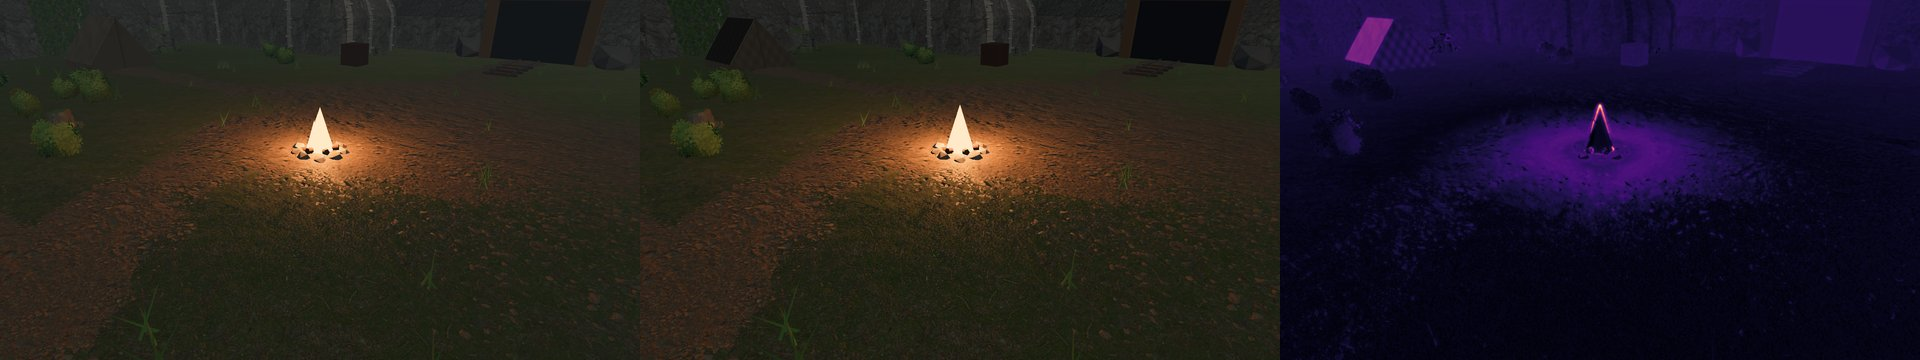
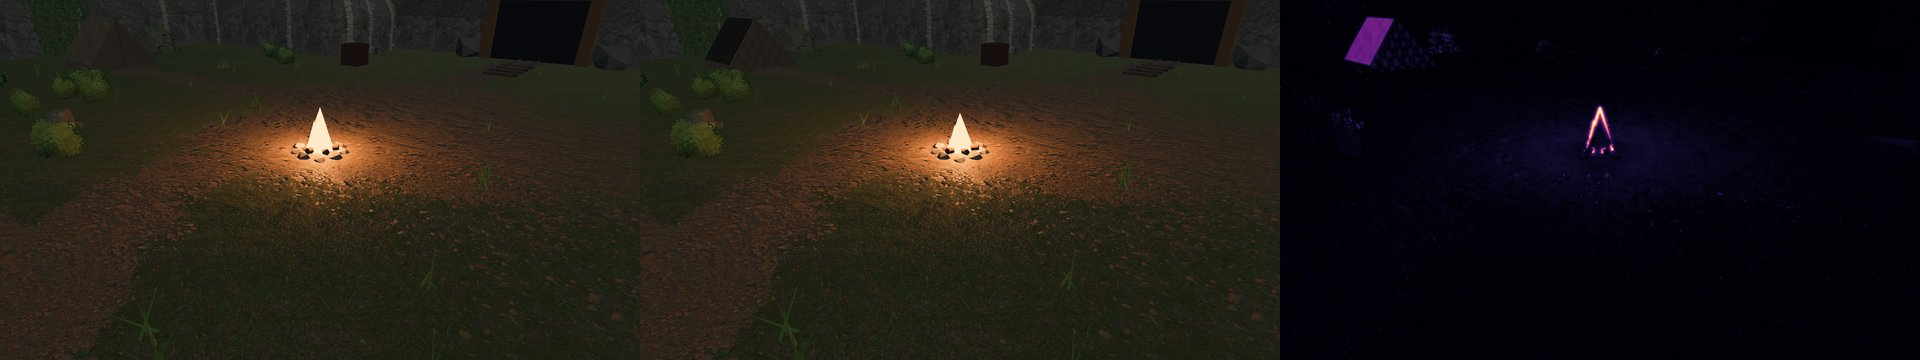
Greyhaven reference shots: fog of the shot's hour (#757)
greyhaven_lighting_shots set the hour for the noon, dusk, night and torch
shots but kept the fog colour of the zone's 08:00. The renderer adds fog
unexposed, so at night the daytime grey-blue lifted the whole native frame
and the browser looked darker, its light pools weaker (render-engine#102).
The shots now take the fog with their hour; their references are captured
again and the FLIP numbers recorded.

Closes #757

Changed region(s): [[0.6562, 0.0, 1.0, 0.7028], [0.6875, 0.9472, 0.7188, 0.9778], [0.6562, 0.5194, 0.6875, 0.55]]

diff --git a/crates/mmorpg-client/src/graphics.rs b/crates/mmorpg-client/src/graphics.rs
@@ -768,7 +768,11 @@ mod tests {
                 }
                 let mut frame = presentation.frame(&world, now, view);
                 if let Some(hour) = hour {
-                    frame.lighting.hour = hour;
+                    // The shot's hour sets the fog colour too, as in the browser capture
+                    // (render-engine#102); the content's lights stay.
+                    let at = crate::world::Lighting::at(hour);
+                    frame.lighting.hour = at.hour;
+                    frame.lighting.fog = at.fog;
                 }
                 let pixels = readback(&frame, &[], view, size, None).await.unwrap();
                 image::save_buffer(

diff --git a/docs/reviews/greyhaven-reference/README.md b/docs/reviews/greyhaven-reference/README.md
@@ -2,7 +2,12 @@
 
 The approved visual reference for Greyhaven (owner decision 2026-11-11 on
 [render-engine#74](https://github.com/moritzbrantner/render-engine/issues/74)): native captures
-from `greyhaven_lighting_shots` at mmorpg `05a1e3eb` (render-engine `df5597b5`), 1280×720.
+from `greyhaven_lighting_shots`, 1280×720, render-engine `df5597b5`. The four `frame-*` shots are
+from mmorpg `05a1e3eb`. The shots at a set hour (`noon`, `dusk`, `night`, `torch-*`) were
+captured again at `eb58c43b` with the fog of their own hour (#757): before, they kept the fog
+colour of the zone's 08:00, which the renderer adds unexposed, so the night shots were lifted
+by a daytime grey-blue that neither client shows in play
+([render-engine#102](https://github.com/moritzbrantner/render-engine/issues/102)).
 
 - `re9-<shot>.png`: the native reference, lossless. The Outpost at noon, dusk and night, a
   campfire and the lantern post by night (`noon`, `dusk`, `night`, `torch-campfire`,
@@ -17,24 +22,31 @@ recorded, not a gate. Browser at the same revision: three.js 0.186.1 with
 `@moritzbrantner/three-lighting`, Chromium 158.0.8127.18 headless (Playwright 1.65.0), ANGLE on
 OpenGL ES 3.2, RTX 3060 Ti, pixel ratio 1.
 
-| Shot | Hour | FLIP mean | FLIP p99 |
-| --- | --- | --- | --- |
-| `noon` | 12.0 | 0.0594 | 0.3211 |
-| `dusk` | 17.8 | 0.0663 | 0.2657 |
-| `night` | 23.5 | 0.0984 | 0.2373 |
-| `torch-campfire` | 22.0 | 0.0771 | 0.2399 |
-| `torch-lantern` | 22.0 | 0.0955 | 0.2755 |
-| `frame-hub` | 8.0 | 0.0601 | 0.3496 |
-| `frame-woods` | 8.0 | 0.0537 | 0.5587 |
-| `frame-vale` | 8.0 | 0.0295 | 0.2084 |
-| `frame-lake` | 8.0 | 0.0697 | 0.6465 |
+| Shot | Hour | FLIP mean | FLIP p99 | Before #757 (mean / p99) |
+| --- | --- | --- | --- | --- |
+| `noon` | 12.0 | 0.0593 | 0.3211 | 0.0594 / 0.3211 |
+| `dusk` | 17.8 | 0.0482 | 0.2629 | 0.0663 / 0.2657 |
+| `night` | 23.5 | 0.0355 | 0.1994 | 0.0984 / 0.2373 |
+| `torch-campfire` | 22.0 | 0.0206 | 0.0905 | 0.0771 / 0.2399 |
+| `torch-lantern` | 22.0 | 0.0763 | 0.2024 | 0.0955 / 0.2755 |
+| `frame-hub` | 8.0 | 0.0601 | 0.3496 | |
+| `frame-woods` | 8.0 | 0.0537 | 0.5587 | |
+| `frame-vale` | 8.0 | 0.0295 | 0.2084 | |
+| `frame-lake` | 8.0 | 0.0697 | 0.6465 | |
 
-Reproduce, at `05a1e3eb` with this directory's test and script changes applied:
+The campfire and the cave torches flicker, and the two clients capture them at different
+moments, so the torch shots vary between browser captures: over four captures, `torch-campfire`
+0.021 to 0.036 and `torch-lantern` 0.037 to 0.076 (before #757: 0.068 to 0.078 and 0.071 to
+0.109). With the flicker held steady on both sides (reduced motion) they measure 0.0134 and
+0.0137, and their mean luminance matches within 0.2 %: the point lights themselves agree.
+
+Reproduce (the `frame-*` shots at `05a1e3eb` with this directory's test and script changes
+applied, the others at `eb58c43b` with #757's):
 
 ```sh
 bash scripts/fetch-bundles.sh && bash scripts/prepare-ranger-native.sh
-MMORPG_LIGHTING_SHOTS=artifacts/lighting cargo test --release --locked -p mmorpg-client --lib \
-  greyhaven_lighting_shots -- --ignored --nocapture
+MMORPG_LIGHTING_SHOTS="$PWD/artifacts/lighting" cargo test --release --locked -p mmorpg-client \
+  --lib greyhaven_lighting_shots -- --ignored --nocapture
 (cd web && bun install --frozen-lockfile && bun run build)
 python scripts/capture-browser-reference.py docs/reviews/greyhaven-reference/views.json \
   --out artifacts/greyhaven-reference
